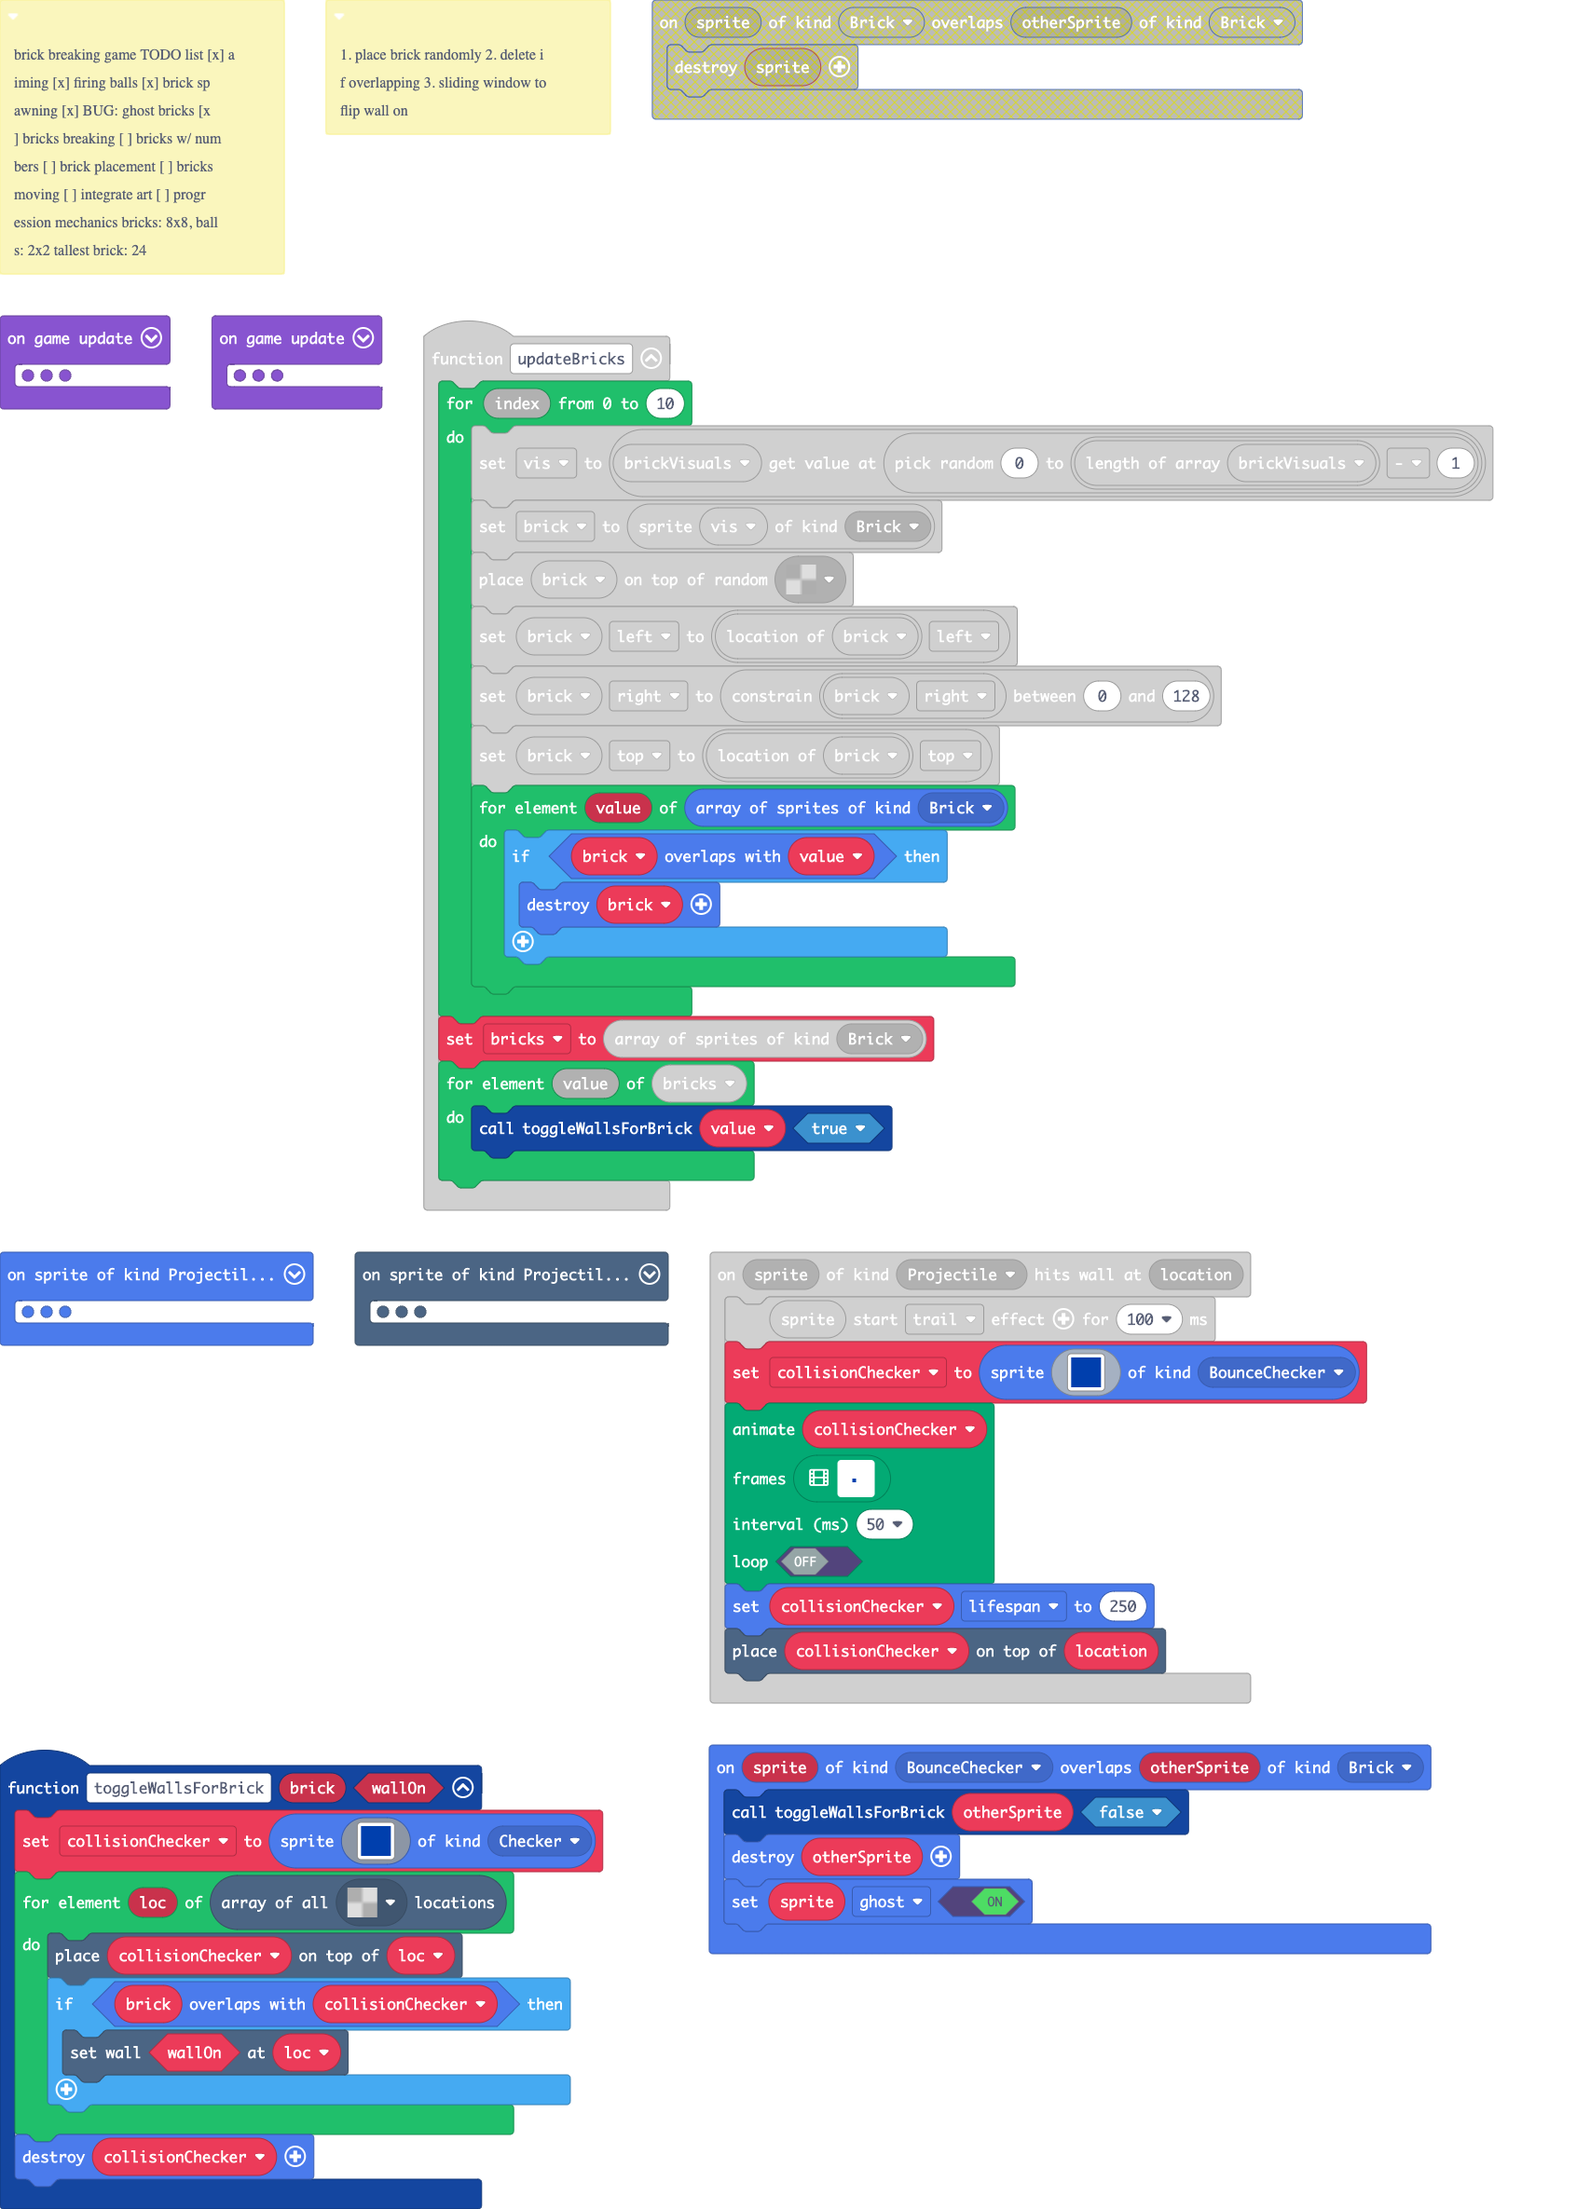
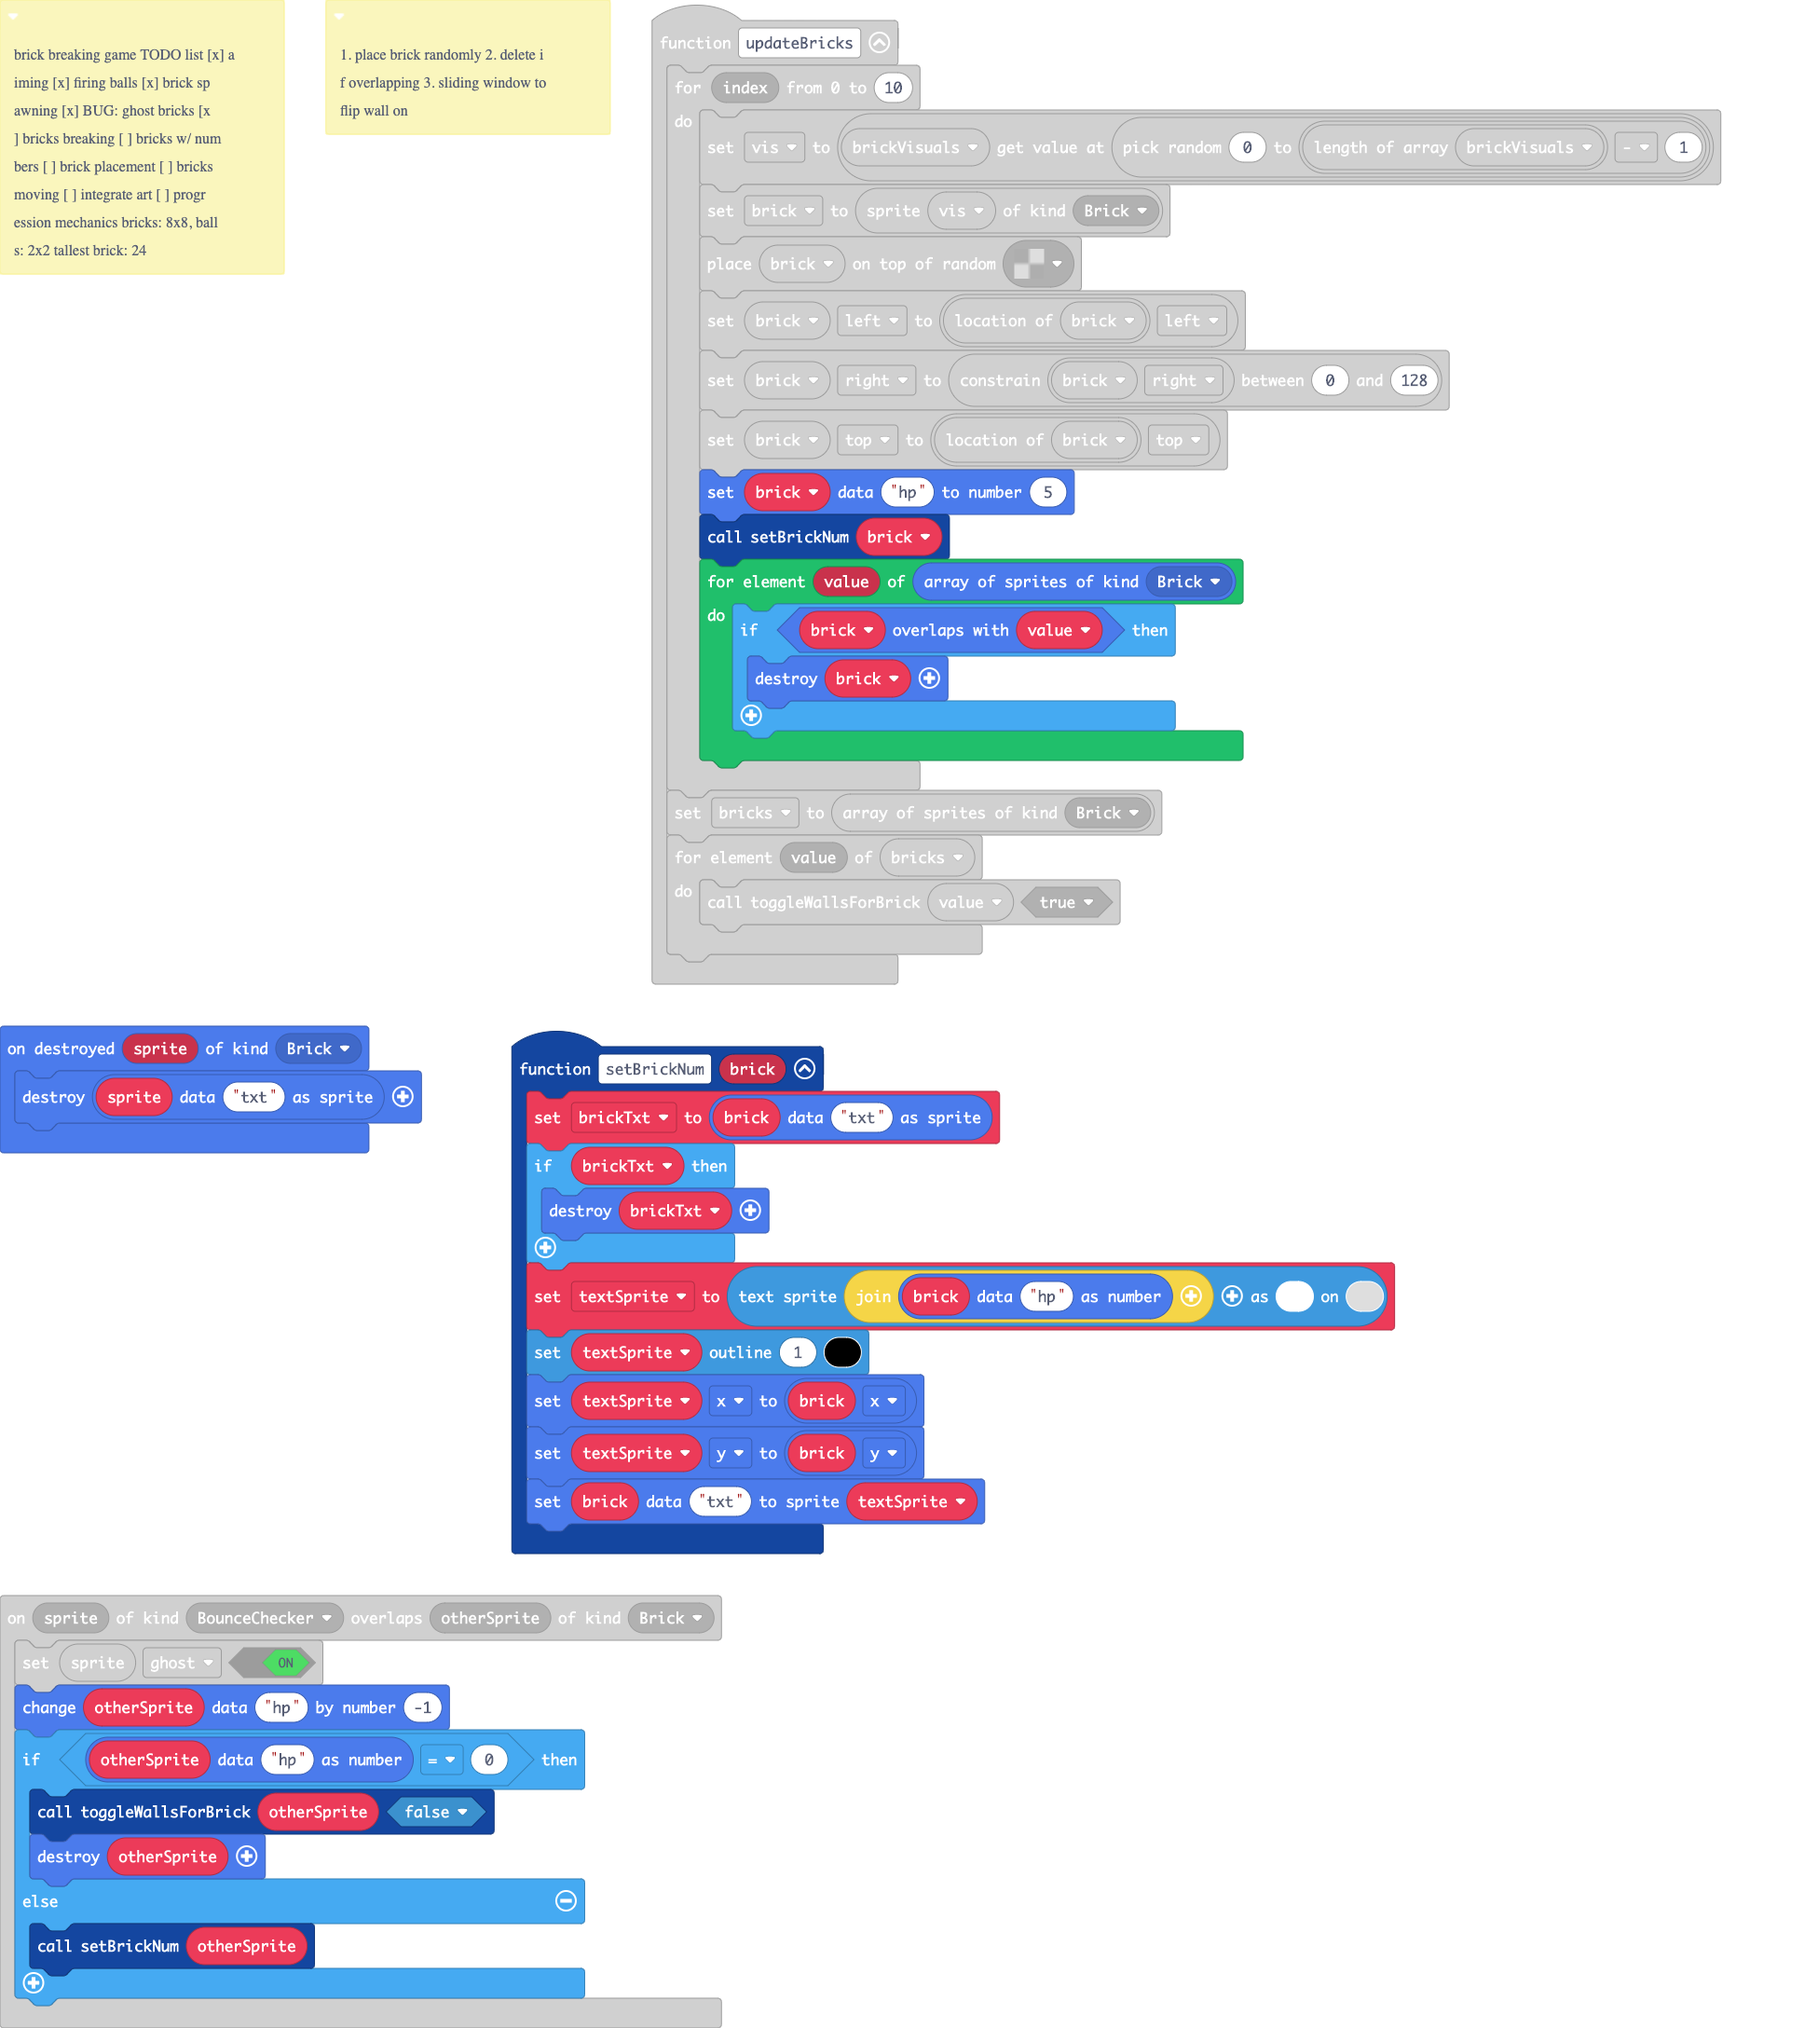
add numbers to bricks

diff --git a/main.ts b/main.ts
@@ -37,6 +37,9 @@ namespace SpriteKind {
  * 
  * 3. sliding window to flip wall on
  */
+sprites.onDestroyed(SpriteKind.Brick, function (sprite) {
+    sprites.readDataSprite(sprite, "txt").destroy()
+})
 function toggleWallsForBrick (brick: Sprite, wallOn: boolean) {
     collisionChecker = sprites.create(img`
         8 8 8 8 8 8 8 8 
@@ -72,6 +75,8 @@ function updateBricks () {
         brick.left = tiles.locationXY(tiles.locationOfSprite(brick), tiles.XY.left)
         brick.right = Math.constrain(brick.right, 0, 128)
         brick.top = tiles.locationXY(tiles.locationOfSprite(brick), tiles.XY.top)
+        sprites.setDataNumber(brick, "hp", 5)
+        setBrickNum(brick)
         for (let value of sprites.allOfKind(SpriteKind.Brick)) {
             if (brick.overlapsWith(value)) {
                 brick.destroy()
@@ -84,10 +89,26 @@ function updateBricks () {
     }
 }
 sprites.onOverlap(SpriteKind.BounceChecker, SpriteKind.Brick, function (sprite, otherSprite) {
-    toggleWallsForBrick(otherSprite, false)
-    otherSprite.destroy()
     sprite.setFlag(SpriteFlag.Ghost, true)
+    sprites.changeDataNumberBy(otherSprite, "hp", -1)
+    if (sprites.readDataNumber(otherSprite, "hp") == 0) {
+        toggleWallsForBrick(otherSprite, false)
+        otherSprite.destroy()
+    } else {
+        setBrickNum(otherSprite)
+    }
 })
+function setBrickNum (brick: Sprite) {
+    brickTxt = sprites.readDataSprite(brick, "txt")
+    if (brickTxt) {
+        brickTxt.destroy()
+    }
+    textSprite = textsprite.create("" + sprites.readDataNumber(brick, "hp"), 0, 1)
+    textSprite.setOutline(1, 15)
+    textSprite.x = brick.x
+    textSprite.y = brick.y
+    sprites.setDataSprite(brick, "txt", textSprite)
+}
 scene.onHitWall(SpriteKind.Projectile, function (sprite, location) {
     sprite.startEffect(effects.trail, 100)
     collisionChecker = sprites.create(img`
@@ -151,6 +172,8 @@ scene.onOverlapTile(SpriteKind.Projectile, myTiles.tile4, function (sprite, loca
 sprites.onOverlap(SpriteKind.Projectile, SpriteKind.Brick, function (sprite, otherSprite) {
 	
 })
+let textSprite: TextSprite = null
+let brickTxt: Sprite = null
 let bricks: Sprite[] = []
 let brick: Sprite = null
 let vis: Image = null
